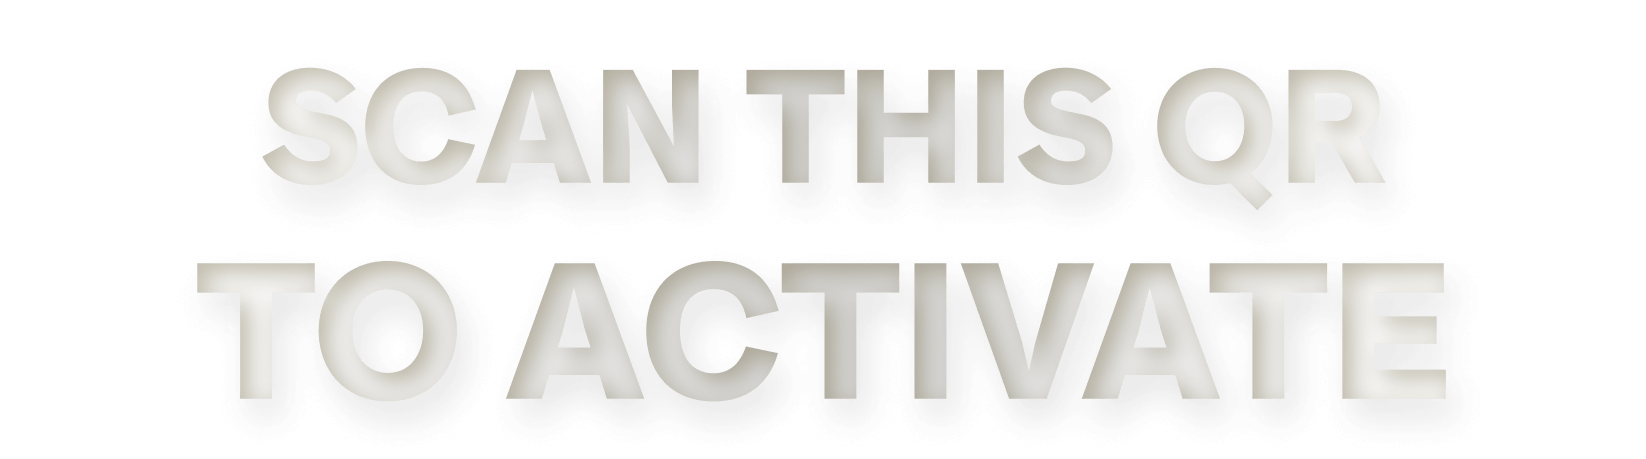
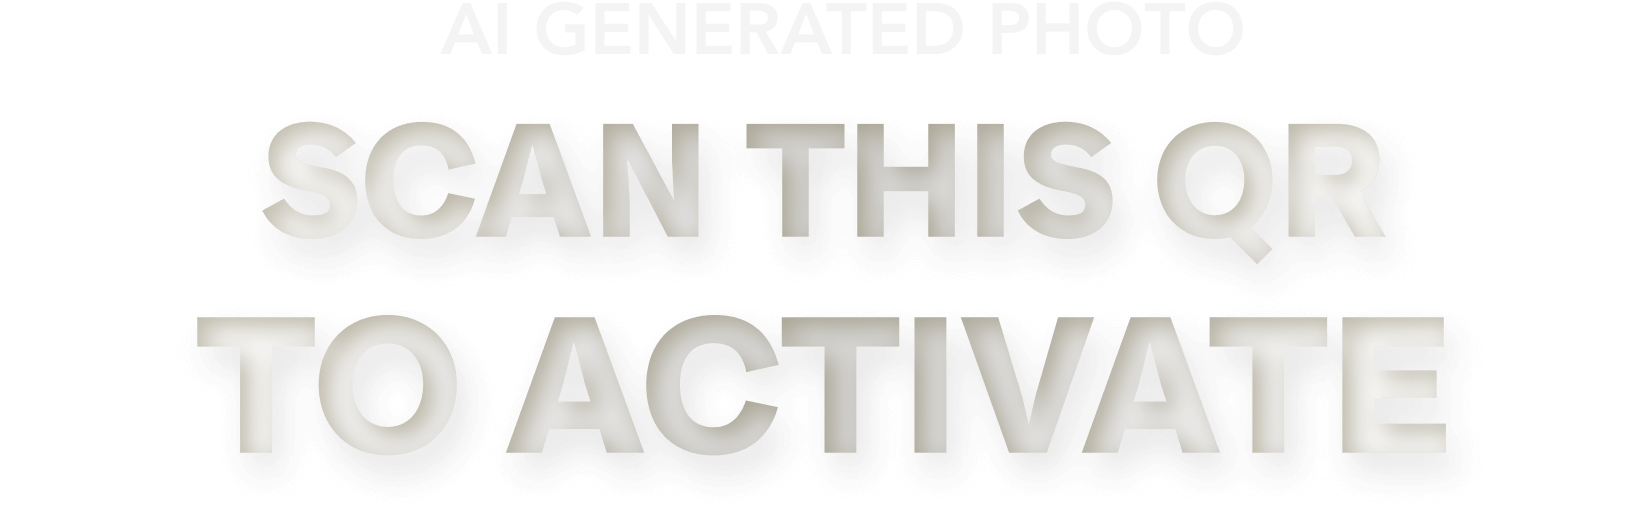
upd title scan

diff --git a/app/home/page.js b/app/home/page.js
@@ -65,7 +65,7 @@ export default function MLBHome() {
 
   return (
     <main className="flex fixed h-full w-full bg-kai overflow-auto flex-col justify-center items-center py-16 px-20 top-0">
-      <div className='fixed top-24 w-[95%]'>
+      <div className='fixed top-[10rem] w-[95%]'>
           <Image src='/title-scan.png' width={823} height={221} alt='Zirolu' className='w-full' priority />
       </div>
       <dv className='relative w-[750px] flex justify-center items-center'>

diff --git a/app/v2/home/page.js b/app/v2/home/page.js
@@ -65,7 +65,7 @@ export default function MLBHome() {
 
   return (
     <main className="flex fixed h-full w-full bg-kai overflow-auto flex-col justify-center items-center py-16 px-20 top-0">
-      <div className='fixed top-24 w-[95%]'>
+      <div className='fixed top-[10rem] w-[95%]'>
           <Image src='/title-scan.png' width={823} height={221} alt='Zirolu' className='w-full' priority />
       </div>
       <dv className='relative w-[750px] flex justify-center items-center'>
